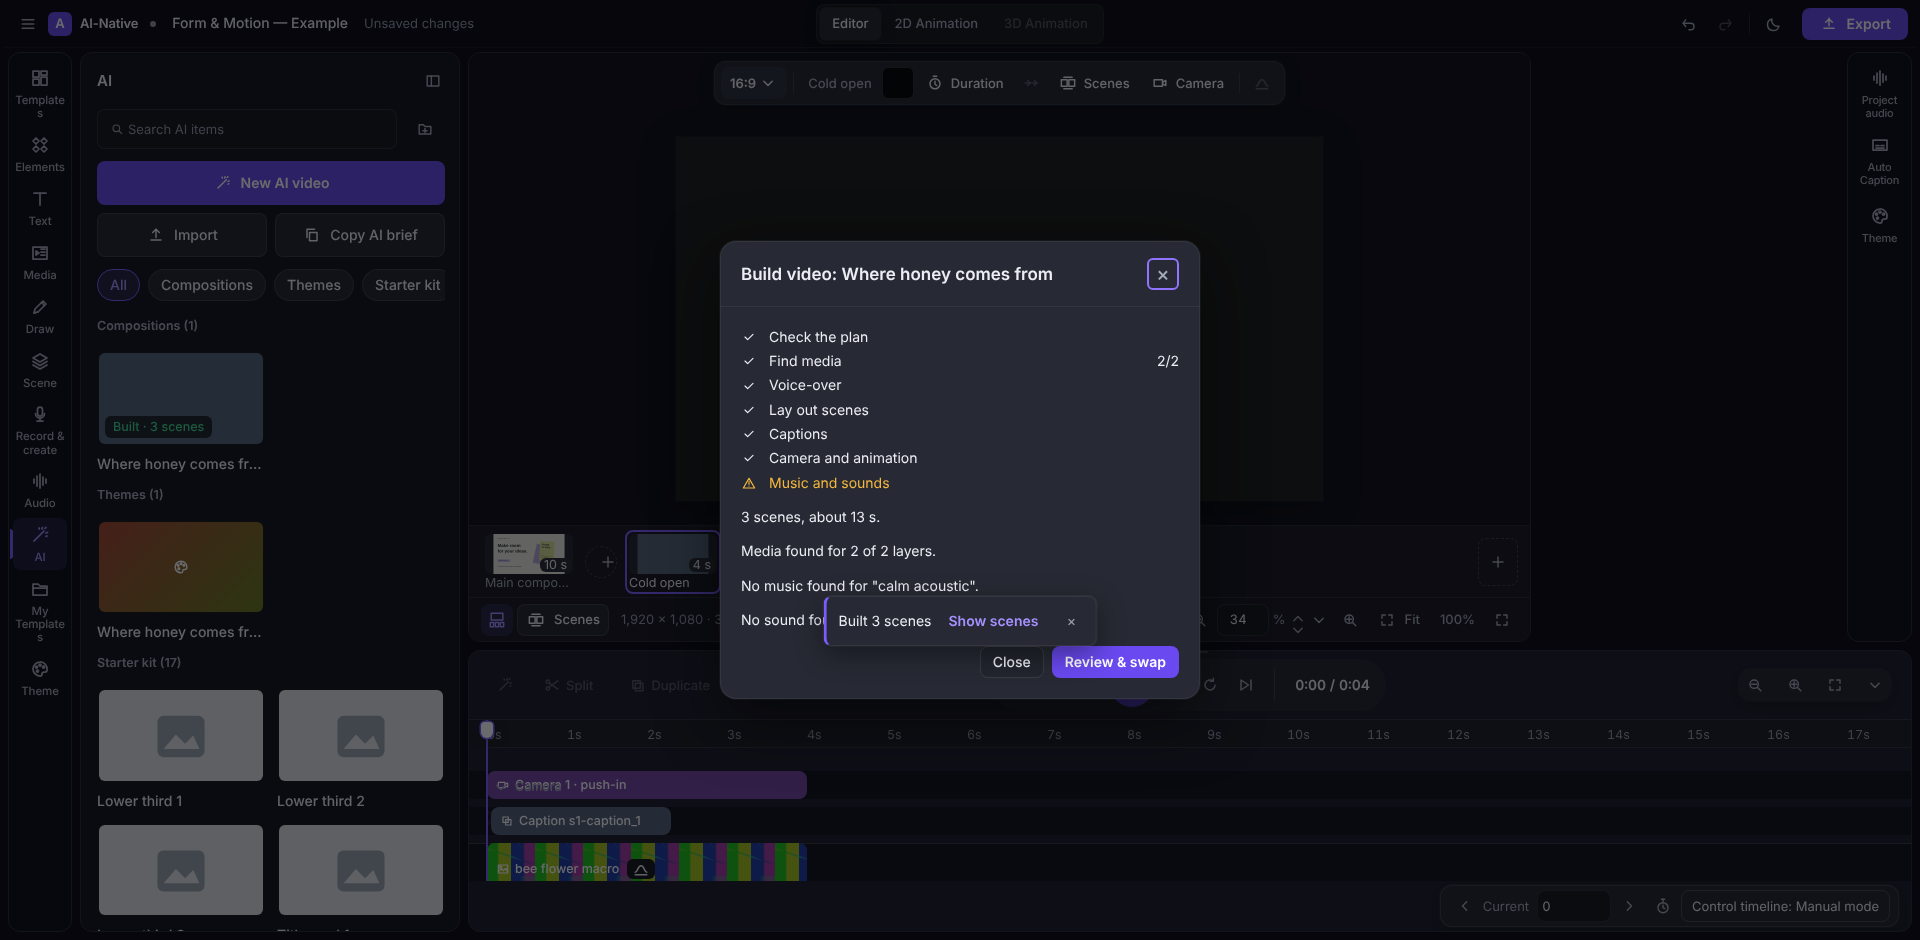
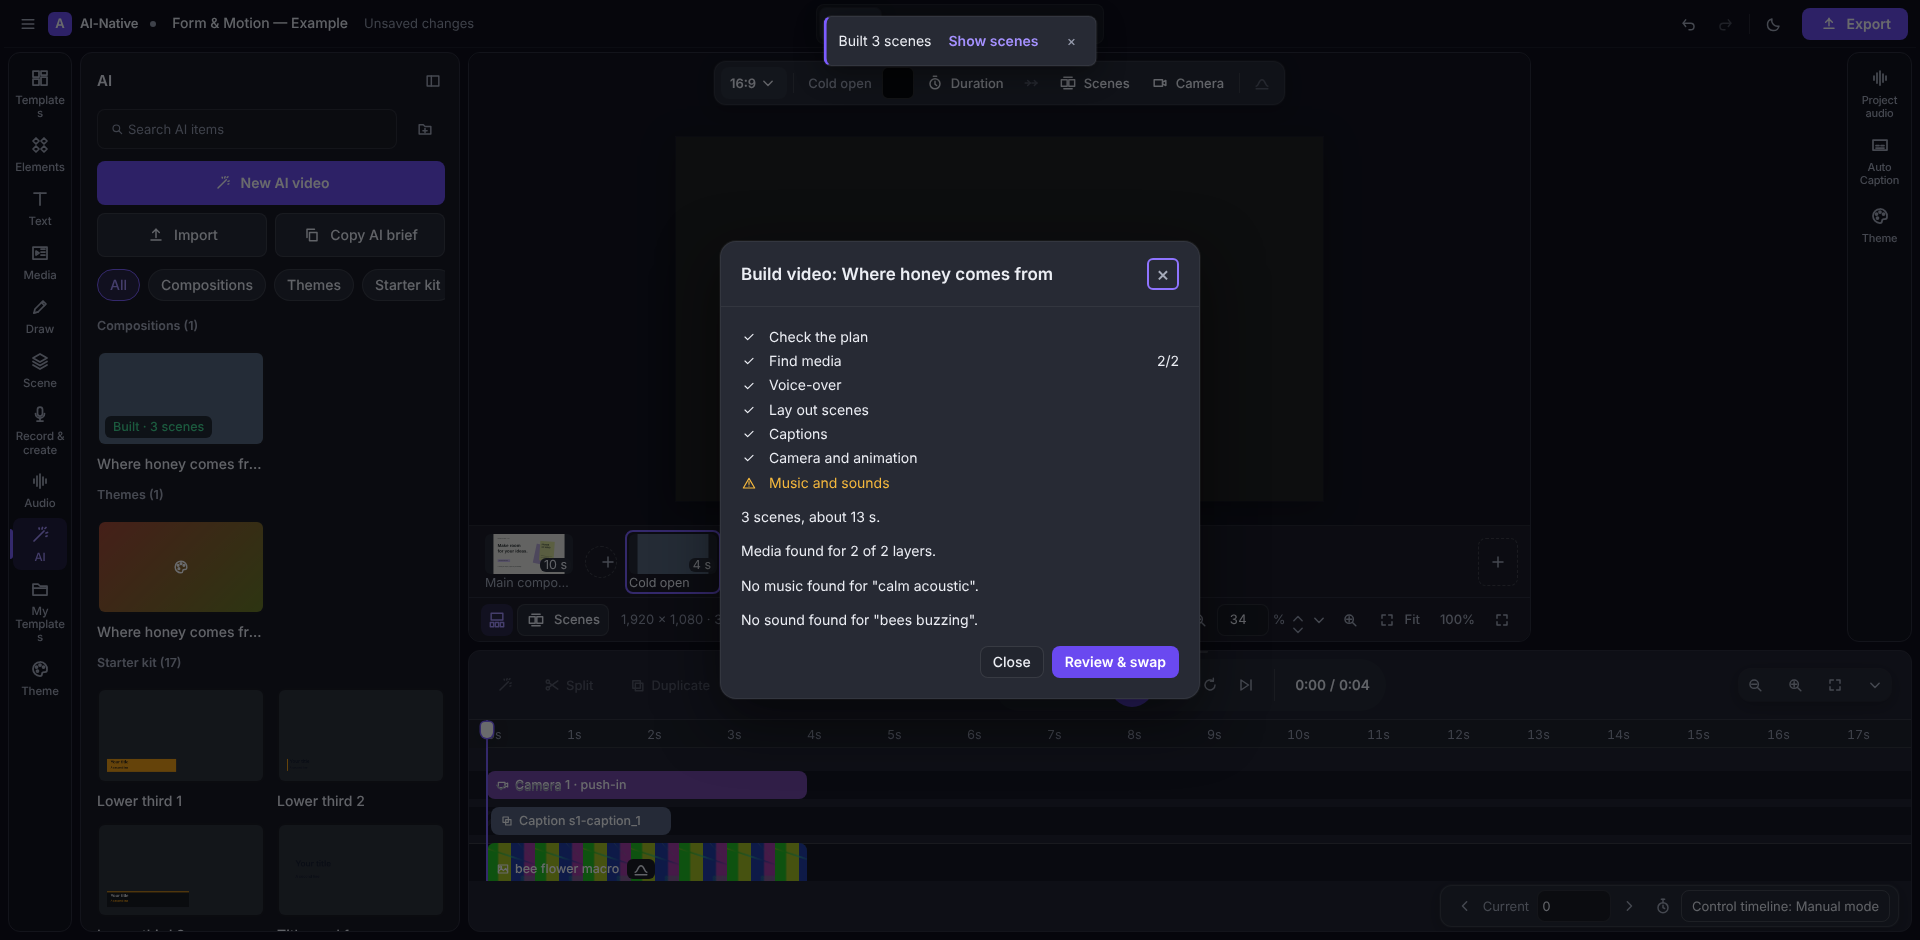
feat(ai): starter kit cards show real previews; toast moves up while a dialog is open [FIX4 A10]
Claude-Session: https://claude.ai/code/session_01VcXxyXrGE6xcCamYyf9WEF

diff --git a/src/video-plan/kit-preview.ts b/src/video-plan/kit-preview.ts
@@ -1,0 +1,92 @@
+// FIX4 A10: a real picture of a starter kit item for its card. The item's
+// spec (shapes and text, built for a 16:9 frame from the open theme's
+// palette) is drawn straight onto a small canvas; nothing is added to the
+// project. Pictures are kept per id and palette.
+import { kitItems, type SpecItem } from './kit';
+
+const W = 320;
+const H = 180;
+const cache = new Map<string, string>();
+
+interface Palette {
+  readonly background: string;
+  readonly text: string;
+  readonly accent: string;
+}
+
+const num = (value: unknown, fallback = 0) =>
+  typeof value === 'number' && Number.isFinite(value) ? value : fallback;
+
+/** A data URL of the kit item, or null when it cannot be drawn. */
+export function kitPreviewUrl(
+  id: string,
+  palette: Palette,
+  sample: string,
+): string | null {
+  const key = `${id}|${palette.background}|${palette.text}|${palette.accent}|${sample}`;
+  const hit = cache.get(key);
+  if (hit) return hit;
+  const items = kitItems(id, {
+    width: 1920,
+    height: 1080,
+    palette,
+    text: sample,
+    start: 0,
+    duration: 3,
+    idPrefix: 'preview',
+  });
+  if (!items) return null;
+  const canvas = document.createElement('canvas');
+  canvas.width = W;
+  canvas.height = H;
+  const ctx = canvas.getContext('2d');
+  if (!ctx) return null;
+  ctx.fillStyle = '#2a2d34';
+  ctx.fillRect(0, 0, W, H);
+  const scale = W / 1920;
+  for (const item of items as SpecItem[]) drawItem(ctx, item, scale);
+  try {
+    const url = canvas.toDataURL('image/png');
+    cache.set(key, url);
+    return url;
+  } catch {
+    return null;
+  }
+}
+
+function drawItem(
+  ctx: CanvasRenderingContext2D,
+  item: SpecItem,
+  scale: number,
+) {
+  const transform = (item.transform ?? {}) as Record<string, unknown>;
+  const x = num(transform.x) * scale;
+  const y = num(transform.y) * scale;
+  const width = num(item.width) * scale;
+  const height = num(item.height) * scale;
+  ctx.save();
+  ctx.globalAlpha = num(transform.opacity, 1);
+  const fill = typeof item.fill === 'string' ? item.fill : '#ffffff';
+  if (item.kind === 'shape') {
+    ctx.fillStyle = fill;
+    if (item.shape === 'ellipse') {
+      ctx.beginPath();
+      ctx.ellipse(
+        x + width / 2,
+        y + height / 2,
+        width / 2,
+        height / 2,
+        0,
+        0,
+        7,
+      );
+      ctx.fill();
+    } else ctx.fillRect(x, y, width, height);
+  } else if (item.kind === 'text' && typeof item.text === 'string') {
+    ctx.fillStyle = fill;
+    ctx.font = `600 ${Math.max(5, num(item.fontSize, 40) * scale)}px system-ui, sans-serif`;
+    ctx.textBaseline = 'top';
+    ctx.fillText(item.text, x, y, Math.max(1, width));
+  }
+  ctx.restore();
+}

diff --git a/src/ui/ai-panel.ts b/src/ui/ai-panel.ts
@@ -81,6 +81,8 @@ export interface AiPanelOptions {
   readonly kit?: {
     readonly items: () => readonly { id: string; name: string }[];
     readonly insert: (id: string) => void;
+    /** FIX4 A10: a picture of the item (null: the soft placeholder). */
+    readonly preview?: (id: string) => string | null;
   };
 }
 
@@ -165,7 +167,12 @@ export function mountAiPanel(host: HTMLElement, options: AiPanelOptions) {
           keywords: ['kit', 'starter', item.id],
           data: { kit: item.id, kind: 'kit' },
           thumb: (slot: HTMLElement) =>
-            libraryThumb(slot, { id, type: 'kit', name: item.name }),
+            libraryThumb(slot, {
+              id,
+              type: 'kit',
+              name: item.name,
+              url: options.kit?.preview?.(item.id) ?? null,
+            }),
         };
       }),
       ...options.library.list().map((entry) => {

diff --git a/e2e/fix4.spec.ts b/e2e/fix4.spec.ts
@@ -92,4 +92,17 @@ test('[FX4-004] AI composition card: Not built, then Built with scene count and 
   await expect(card).toContainText('3 scenes');
   await expect(card.locator('[data-thumb="image"]')).toHaveCount(1);
   await page.screenshot({ path: 'reports/fix4/a4-card.png' });
+  // A10: the starter kit cards show real pictures, not grey placeholders.
+  const kit = page.locator(
+    '#library-ai .shelf-item[data-id^="ai:kit:"], #library-ai .shelf-item:has([data-thumb])',
+  );
+  await expect(
+    page.locator('#library-ai [data-thumb="placeholder"]'),
+  ).toHaveCount(0);
+  expect(await kit.count()).toBeGreaterThan(3);
+  await page
+    .locator('#library-ai .shelf-body, #library-ai .shelf')
+    .first()
+    .evaluate((el) => el.scrollTo(0, el.scrollHeight));
+  await page.screenshot({ path: 'reports/fix4/a10-kit.png' });
 });

diff --git a/src/ui/shell.ts b/src/ui/shell.ts
@@ -293,6 +293,7 @@ import {
   withFeelDefaults,
   type VideoPlan,
 } from '../video-plan';
+import { kitPreviewUrl } from '../video-plan/kit-preview';
 import type { FeelExtras } from '../themes/library';
 import { openPlanBuild, planServices } from './plan-build-dialog';
 import { planReviewPanel } from './plan-review';
@@ -4178,6 +4179,10 @@ export function mountEditorShell(
           ? KIT_IDS.map((id) => ({ id, name: t(`kit.name.${id}`) }))
           : [],
       insert: (id) => void insertKitItem(id).catch(reportError),
+      preview: (id) => {
+        const theme = themeById(currentThemeId()) ?? BUILT_IN_THEMES[0]!;
+        return kitPreviewUrl(id, theme.palette, t('kit.sampleText'));
+      },
     },
     insert: (id) => safely(() => insertCreatorItem(id)),
     applyPreset: (id) => applyCreatorPreset(id),

diff --git a/src/style.css b/src/style.css
@@ -11257,3 +11257,10 @@ input[type='range'] {
   flex: 1;
   min-width: 0;
 }
+
+/* FIX4: while a dialog is open the toast moves to the top, so it never
+   covers the dialog's last lines. */
+body:has(.modal-backdrop) .toast-stack {
+  bottom: auto;
+  top: var(--space-4);
+}
